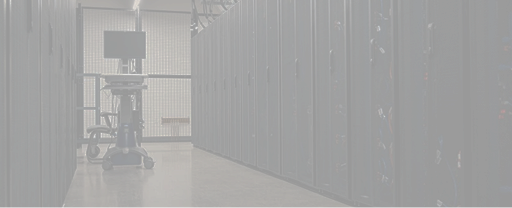
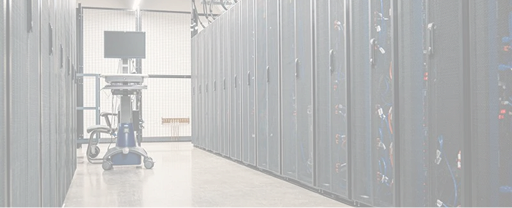
modif footer page

diff --git a/src/components/layout/Footer.tsx b/src/components/layout/Footer.tsx
@@ -49,7 +49,7 @@ const Footer = () => {
   ];
 
   const navigationLinks = [
-    { label: "Accueil", href: "/#acueil" },
+    { label: "Accueil", href: "/#accueil" },
     { label: "À propos", href: "/about" },
     { label: "Actualités", href: "/actualites" },
     { label: "Services", href: "/#services" },
@@ -66,14 +66,25 @@ const Footer = () => {
     "Supply chain Management",
   ];
 
+  const recentArticles = [
+    "Test 1",
+    "Test 2",
+    "Test 3",
+    "Test 4",
+    "Test 5",
+    "Test 6",
+    "Test 7",
+  ];
+
   return (
     <footer
       role="contentinfo"
       aria-label="Pied de page"
       className="bg-[#F1F1F1]"
     >
-      <div className="w-full py-12 md:py-16 px-4 bg-[url('/images/bg-footer.png')] bg-cover bg-center bg-no-repeat min-h-[584px]">
-        <div className="container mx-auto">
+      <div className="relative w-full py-12 md:py-16 px-4 bg-[url('https://www.wysiwyg.fr/wp-content/uploads/elementor/thumbs/pexels-brett-sayles-4508751-r4vkxymyczvr9djw100tz1iyeskebu44sw56c319jo.jpg')] bg-cover bg-center bg-no-repeat min-h-[584px]">
+        <div className="absolute inset-0 bg-black/60"></div>
+        <div className="relative z-10 container mx-auto">
           <div className="flex flex-col md:flex-row items-center justify-between gap-6 md:gap-0">
             <div className="relative w-[150px] md:w-[188px] h-[120px] md:h-[148px]">
               <Image
@@ -100,53 +111,42 @@ const Footer = () => {
               ))}
             </div>
           </div>
-
-          <hr className="border-[#b3b4b5] w-full mt-6 md:mt-8" />
-          <div className="grid grid-cols-1 md:grid-cols-2 lg:grid-cols-3 gap-8 lg:gap-12 py-8 md:py-12">
+          <hr className="border-white/20 w-full mt-6 md:mt-8" />
+          <div className="grid grid-cols-1 sm:grid-cols-2 lg:grid-cols-4 gap-8 lg:gap-6 py-8 md:py-12">
             <section
               aria-labelledby="contact-title"
               className="text-center md:text-left"
             >
               <h2
                 id="contact-title"
-                className="text-[20px] text-[#FFFFFF] font-poppins font-bold mb-4 md:mb-6"
+                className="text-[20px] text-white font-poppins font-bold mb-4 md:mb-6"
               >
                 Contactez-nous
               </h2>
-              <div className="text-black text-[15px] md:text-[16px] font-assistant leading-[1.8rem] space-y-3">
+              <div className="text-white/90 text-[14px] md:text-[15px] font-assistant leading-[1.8rem] space-y-3">
                 <p>
-                  WYSIWYG a été créée le 1er Avril 1999{" "}
+                  WYSIWYG a été créée le 1er Avril 1999
                   <br className="hidden md:block" />
                   par Xavier LOPEZ.
                 </p>
                 <address className="not-italic space-y-1">
                   <p>
-                    Téléphone :{" "}
-                    <a
-                      href="tel:[phone redacted]"
-                      className="hover:text-[#52BC71] transition-colors"
-                    >
-                      [phone redacted] 71
-                    </a>
+                    <span className="text-[#52BC71]">Téléphone</span> : +33 08
+                    92 49 00 71
                   </p>
                   <p>
-                    E-mail :{" "}
-                    <a
-                      href="mailto:[email redacted]"
-                      className="hover:text-[#52BC71] transition-colors"
-                    >
-                      [email redacted]
-                    </a>
+                    <span className="text-[#52BC71]">E-mail</span> :
+                    [email redacted]
                   </p>
                   <p>
-                    Site web :{" "}
+                    <span className="text-[#52BC71]">Site web </span> :{" "}
                     <a
-                      href="https://exemple.com"
+                      href="https://wysiwyg-website.onrender.com/"
                       target="_blank"
                       rel="noopener noreferrer"
                       className="hover:text-[#52BC71] transition-colors"
                     >
-                      https://exemple.com
+                      https://wysiwyg-website.onrender.com
                     </a>
                   </p>
                 </address>
@@ -158,11 +158,11 @@ const Footer = () => {
             >
               <h2
                 id="services-title"
-                className="text-[20px] text-[#FFFFFF] font-poppins font-bold mb-4 md:mb-6"
+                className="text-[20px] text-white font-poppins font-bold mb-4 md:mb-6"
               >
                 Nos Services
               </h2>
-              <ul className="text-black text-[15px] md:text-[16px] font-assistant space-y-2 leading-[1.6rem]">
+              <ul className="text-white/90 text-[14px] md:text-[15px] font-assistant space-y-2 leading-[1.8rem]">
                 {servicesList.map((service) => (
                   <li key={service}>{service}</li>
                 ))}
@@ -175,7 +175,7 @@ const Footer = () => {
               <div className="flex items-center justify-between md:justify-start cursor-pointer md:cursor-default">
                 <h2
                   id="navigation-title"
-                  className="text-[20px] text-[#FFFFFF] font-poppins font-bold"
+                  className="text-[20px] text-white font-poppins font-bold"
                 >
                   Navigation
                 </h2>
@@ -195,7 +195,7 @@ const Footer = () => {
 
               <nav
                 aria-label="Navigation principale"
-                className={`flex flex-col gap-3 mt-4 md:mt-6 ${
+                className={`flex flex-col gap-2 mt-4 md:mt-6 ${
                   isNavOpen ? "block" : "hidden md:flex"
                 }`}
               >
@@ -203,7 +203,7 @@ const Footer = () => {
                   <Link
                     key={link.label}
                     href={link.href}
-                    className="text-black text-[15px] md:text-[16px] hover:text-white transition-colors duration-300 relative group w-fit mx-auto md:mx-0"
+                    className="text-white/90 text-[14px] md:text-[15px] hover:text-[#52BC71] transition-colors duration-300 relative group w-fit mx-auto md:mx-0"
                   >
                     {link.label}
                     <span className="absolute -bottom-1 left-0 w-0 h-0.5 bg-[#52BC71] transition-all duration-300 group-hover:w-full"></span>
@@ -211,17 +211,43 @@ const Footer = () => {
                 ))}
               </nav>
             </section>
+            <section
+              aria-labelledby="articles-title"
+              className="text-center md:text-left"
+            >
+              <h2
+                id="articles-title"
+                className="text-[20px] text-white font-poppins font-bold mb-4 md:mb-6"
+              >
+                Dernier article
+              </h2>
+              <ul className="text-white/90 text-[14px] md:text-[15px] font-assistant space-y-2 leading-[1.8rem]">
+                {recentArticles.map((article, index) => (
+                  <li key={index}>
+                    <Link
+                      href={`/blog/${article.toLowerCase().replace(/ /g, "-")}`}
+                      className="hover:text-[#52BC71] transition-colors duration-300"
+                    >
+                      {article}
+                    </Link>
+                  </li>
+                ))}
+              </ul>
+            </section>
           </div>
         </div>
       </div>
+
       <div className="bg-black w-full py-4 md:py-6">
         <div className="container mx-auto flex flex-col md:flex-row justify-between items-center px-4 text-white gap-2 md:gap-0">
           <p className="text-sm md:text-base text-center">
             &copy; Copyright {currentYear} WYSIWYG. Tous droits réservés
           </p>
-          <p className="text-sm md:text-base text-center">
-            Conception par l&apos;équipe IOC
-          </p>
+          <div className="flex items-center gap-4">
+            <p className="text-sm md:text-base text-center">
+              Conception par l&apos;équipe IOC
+            </p>
+          </div>
         </div>
       </div>
     </footer>